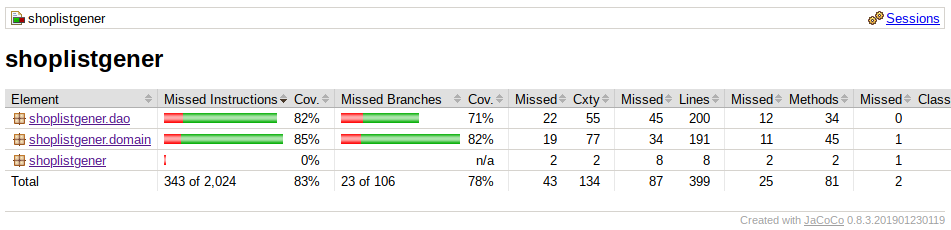
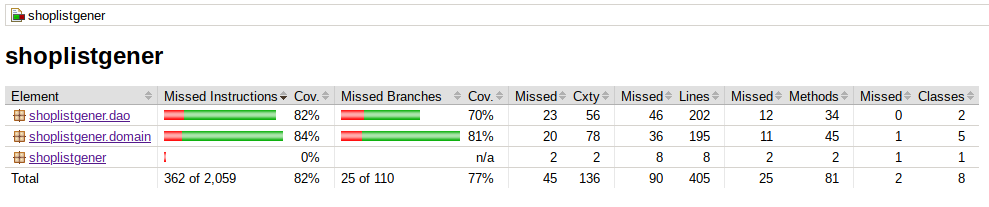
Final input validation changes for UI

diff --git a/src/main/java/shoplistgener/ui/UIJavaFX.java b/src/main/java/shoplistgener/ui/UIJavaFX.java
@@ -250,6 +250,8 @@ public class UIJavaFX extends Application {
                 String newCourses = this.domainHandler.changeCourse(true, changedCourse, "");
                 HBox currentMenu = initializeMenuView(newViews, newCourses, listMenu, listShoppingList, listShoppingListwithKitchenIngredients, menuItems, menuPlacement);
                 changingView.setCenter(currentMenu);
+            } catch (NullPointerException n) {
+                changingView.setCenter(newViews.createErrorView("Remember to select an item from the list!"));
             } catch (Exception e) {
                 changingView.setCenter(newViews.createErrorView(e.getMessage()));
             }
@@ -262,6 +264,8 @@ public class UIJavaFX extends Application {
                 String newCourses = this.domainHandler.changeCourse(false, changedCourse, newCourseName);
                 HBox currentMenu = initializeMenuView(newViews, newCourses, listMenu, listShoppingList, listShoppingListwithKitchenIngredients, menuItems, menuPlacement);
                 changingView.setCenter(currentMenu);
+            } catch (NullPointerException n) {
+                changingView.setCenter(newViews.createErrorView("Remember to select an item from the list!"));
             } catch (Exception e) {
                 changingView.setCenter(newViews.createErrorView(e.getMessage()));
             }
@@ -275,6 +279,8 @@ public class UIJavaFX extends Application {
             quickViewRecipe.setContentText(recipeInList.get(1));
             quickViewRecipe.setHeaderText(recipeInList.get(2));
             quickViewRecipe.showAndWait();
+            } catch (NullPointerException n) {
+                changingView.setCenter(newViews.createErrorView("Remember to select an item from the list!"));
             } catch (Exception e) {
                 changingView.setCenter(newViews.createErrorView(e.getMessage()));
             }
@@ -286,6 +292,8 @@ public class UIJavaFX extends Application {
                 String selectedRecipe = allRecipesListView.getSelectionModel().getSelectedItem().toString();
                 List<String> recipeInList = domainHandler.fetchRecipeList(selectedRecipe);
                 showRecipe.setText(String.join("\n\n", recipeInList));
+            } catch (NullPointerException n) {
+                changingView.setCenter(newViews.createErrorView("Remember to select an item from the list!"));
             } catch (Exception e) {
                 changingView.setCenter(newViews.createErrorView(e.getMessage()));
             }
@@ -304,9 +312,13 @@ public class UIJavaFX extends Application {
         removeRecipe.setOnAction((event) -> {
             try {
                 String removedRecipe = showRecipe.getText().split("\n\n")[0];
-                domainHandler.removeRecipe(removedRecipe);
-                allRecipesInList.remove(removedRecipe);
-                showRecipe.setText("\n\nrecipe was removed");
+                if (!removedRecipe.isEmpty()) {
+                    if (!removedRecipe.equals("could not find any matching recipes")) {
+                        domainHandler.removeRecipe(removedRecipe);
+                        allRecipesInList.remove(removedRecipe);
+                        showRecipe.setText("\n\nrecipe was removed");
+                    }
+                }
             } catch (Exception e) {
                 changingView.setCenter(newViews.createErrorView(e.getMessage()));
             }
@@ -315,9 +327,13 @@ public class UIJavaFX extends Application {
         modifyRecipe.setOnAction((event) -> {
             try {
                 String modifiableRecipe = showRecipe.getText().split("\n\n")[0];
-                changingView.setCenter(newViews.createEditView(modifiableRecipe, domainHandler, newRecipeName, newRecipeInstructions, ingredientItems, ingredientItemView,
+                if (!modifiableRecipe.isEmpty()) {
+                    if (!modifiableRecipe.equals("could not find any matching recipes")) {
+                        changingView.setCenter(newViews.createEditView(modifiableRecipe, domainHandler, newRecipeName, newRecipeInstructions, ingredientItems, ingredientItemView,
                                                                 listOfNewIngredients, newIngredientName, newIngredientQuantity, editSceneGridPane,
                                                                 addNewRecipeButton, modifyExistingRecipeButton));
+                    }
+                }
             } catch (Exception e) {
                 changingView.setCenter(newViews.createErrorView(e.getMessage()));
             }
@@ -356,10 +372,16 @@ public class UIJavaFX extends Application {
 
         addNewIngredient.setOnAction((event) -> {
             try {
-                ingredientItems.add(newIngredientName.getText().replace(" ", "_") + " " + newIngredientQuantity.getText() + " "
-                                    + listUnit.getSelectionModel().getSelectedItem().toString().toLowerCase());
-                listOfNewIngredients.add(newIngredientName.getText().replace(" ", "_") + " " + newIngredientQuantity.getText() + " "
-                                        + listUnit.getSelectionModel().getSelectedItem().toString().toLowerCase());
+                if (!newIngredientName.getText().isEmpty()) {
+                    if (!newIngredientQuantity.getText().isEmpty()) {
+                        ingredientItems.add(newIngredientName.getText().replace(" ", "_") + " " + newIngredientQuantity.getText() + " "
+                                            + listUnit.getSelectionModel().getSelectedItem().toString().toLowerCase());
+                        listOfNewIngredients.add(newIngredientName.getText().replace(" ", "_") + " " + newIngredientQuantity.getText() + " "
+                                                + listUnit.getSelectionModel().getSelectedItem().toString().toLowerCase());
+                    }
+                }
+            } catch (NullPointerException n) {
+                changingView.setCenter(newViews.createErrorView("Remember to select a UNIT from the list!"));
             } catch (Exception e) {
                 changingView.setCenter(newViews.createErrorView(e.getMessage()));
             }
@@ -368,8 +390,10 @@ public class UIJavaFX extends Application {
         removeSelectedIngredient.setOnAction((event) -> {
             try {
                 int ingIndexNo = ingredientItemView.getSelectionModel().getSelectedIndex();
-                ingredientItems.remove(ingIndexNo);
-                listOfNewIngredients.remove(ingIndexNo - 1);
+                if (ingIndexNo > 0) {
+                    ingredientItems.remove(ingIndexNo);
+                    listOfNewIngredients.remove(ingIndexNo - 1);
+                }
             } catch (Exception e) {
                 changingView.setCenter(newViews.createErrorView(e.getMessage()));
             }
@@ -379,8 +403,12 @@ public class UIJavaFX extends Application {
         addSelectedIngredientToKitchen.setOnAction((event) -> {
             try {
                 String selectedIngredientInKitchen = allIngredientsListView.getSelectionModel().getSelectedItem().toString().split("\\[")[0].trim();
-                domainHandler.addIngredientToKitchen(selectedIngredientInKitchen);
-                viewKitchen.fire();
+                if (!selectedIngredientInKitchen.equals("All Ingredients:")) {
+                    domainHandler.addIngredientToKitchen(selectedIngredientInKitchen);
+                    viewKitchen.fire();
+                }
+            } catch (NullPointerException n) {
+                changingView.setCenter(newViews.createErrorView("Remember to select an ingredient from the list!"));
             } catch (Exception e) {
                 changingView.setCenter(newViews.createErrorView(e.getMessage()));
             }
@@ -389,29 +417,41 @@ public class UIJavaFX extends Application {
         removeSelectedIngredientInKitchen.setOnAction((event) -> {
             try {
                 String selectedIngredientInKitchenToRemove = ingredientsInKitchenListView.getSelectionModel().getSelectedItem().toString().split(" ")[0];
-                domainHandler.removeIngredientFromKitchen(selectedIngredientInKitchenToRemove);
-                viewKitchen.fire();
+                if (!selectedIngredientInKitchenToRemove.isEmpty()) {
+                    if (!selectedIngredientInKitchenToRemove.equals("Ingredients")) {
+                        domainHandler.removeIngredientFromKitchen(selectedIngredientInKitchenToRemove);
+                        viewKitchen.fire();
+                    }
+                }
+            } catch (NullPointerException n) {
+                changingView.setCenter(newViews.createErrorView("Remember to select an ingredient from the list!"));
             } catch (Exception e) {
                 changingView.setCenter(newViews.createErrorView(e.getMessage()));
             }
         });
 
         updateIngredientQuantityInKitchen.setOnAction((event) -> {
-            String selectedIngredientInKitchenToUpdate = ingredientsInKitchenListView.getSelectionModel().getSelectedItem().toString().split(" ")[0];
             Integer newQuantityInInteger = 0;
-            while (true) {
-                Optional<String> newQuantity = setIngredientKitchenQuantity.showAndWait();
-                try {
-                    newQuantityInInteger = Integer.parseInt(newQuantity.get());
-                    break;
-                } catch (Exception e) {
-                    setIngredientKitchenQuantity.setContentText("GIVE AN INTEGER! ");
-                    continue;
-                }
-            }
             try {
-                domainHandler.updateIngredientQuantityInKitchen(selectedIngredientInKitchenToUpdate, newQuantityInInteger);
-                viewKitchen.fire();
+                String selectedIngredientInKitchenToUpdate = ingredientsInKitchenListView.getSelectionModel().getSelectedItem().toString().split(" ")[0];
+                if (!selectedIngredientInKitchenToUpdate.isEmpty()) {
+                    if (!selectedIngredientInKitchenToUpdate.equals("Ingredients")) {
+                        while (true) {
+                            try {
+                                Optional<String> newQuantity = setIngredientKitchenQuantity.showAndWait();
+                                newQuantityInInteger = Integer.parseInt(newQuantity.get());
+                                break;
+                            } catch (Exception e) {
+                                setIngredientKitchenQuantity.setContentText("GIVE AN INTEGER! ");
+                                continue;
+                            }
+                        }
+                        domainHandler.updateIngredientQuantityInKitchen(selectedIngredientInKitchenToUpdate, newQuantityInInteger);
+                        viewKitchen.fire();
+                    }
+                }
+            } catch (NullPointerException n) {
+                changingView.setCenter(newViews.createErrorView("Remember to select an ingredient from the list!"));
             } catch (Exception e) {
                 changingView.setCenter(newViews.createErrorView(e.getMessage()));
             }

diff --git a/src/main/java/shoplistgener/domain/ShoplistgenerService.java b/src/main/java/shoplistgener/domain/ShoplistgenerService.java
@@ -205,7 +205,12 @@ public class ShoplistgenerService {
      */
     public List<String> fetchRecipeList(String name) throws Exception {
         List<String> recipeInList = new ArrayList<String>();
-        Recipe rec = this.daoHandler.fetchRecipe(name);
+        Recipe rec = new Recipe("", "", new ArrayList<Ingredient>());
+        if (name.equals("Menu:")) {
+            rec = new Recipe("Menu: detected", "Please do not select menu heading!", new ArrayList<Ingredient>());
+        } else {
+            rec = this.daoHandler.fetchRecipe(name);
+        }
         recipeInList.add(rec.getName());
         recipeInList.add(rec.getInstructions());
         StringBuilder ingsInString = new StringBuilder();

diff --git a/src/main/java/shoplistgener/dao/ShoplistgenerDAOsqlite.java b/src/main/java/shoplistgener/dao/ShoplistgenerDAOsqlite.java
@@ -209,6 +209,9 @@ public class ShoplistgenerDAOsqlite implements ShoplistgenerDAO {
         PreparedStatement p = this.db.prepareStatement("SELECT id,name,instructions FROM recipes WHERE name LIKE ? AND visible=TRUE LIMIT 1");
         p.setString(1, "%" + name + "%");
         ResultSet r = p.executeQuery();
+        if (!r.next()) {
+            return new Recipe("could not find any matching recipes", "", new ArrayList<Ingredient>());
+        }
         List<Ingredient> ingsInList = this.fetchIngredients(r.getInt("id"));
         return new Recipe(r.getString("name"), r.getString("instructions"), ingsInList);
     }

diff --git a/README.md b/README.md
@@ -14,6 +14,8 @@ Sovelluksella voi luoda siihen tallennettujen reseptien pohjalta satunnaisen ruo
 
 [Linkki harjoitustyön käyttöohjeeseen](https://github.com/tspaanan/shoplist-gener/blob/main/dokumentaatio/kayttoohje.md)
 
+[Linkki harjoitustyön testausdokumenttiin](https://github.com/tspaanan/shoplist-gener/blob/main/dokumentaatio/testaus.md)
+
 ## Releaset
 
 [viikko5](https://github.com/tspaanan/shoplist-gener/releases/tag/viikko5)

diff --git a/dokumentaatio/testaus.md b/dokumentaatio/testaus.md
@@ -4,7 +4,7 @@ Sovelluksen testaus on toteutettu automatisoitujen yksikkötestien ja integraati
 
 ## Automatisoitu yksikkö- ja integraatiotestaus
 
-Automatisoitujen testausten rivikattavuus on 83% ja haarautumakattavuus 78%:
+Automatisoitujen testausten rivikattavuus on 82% ja haarautumakattavuus 77%:
 
 <img src="https://github.com/tspaanan/shoplist-gener/blob/main/dokumentaatio/testauskattavuus.png">
 
